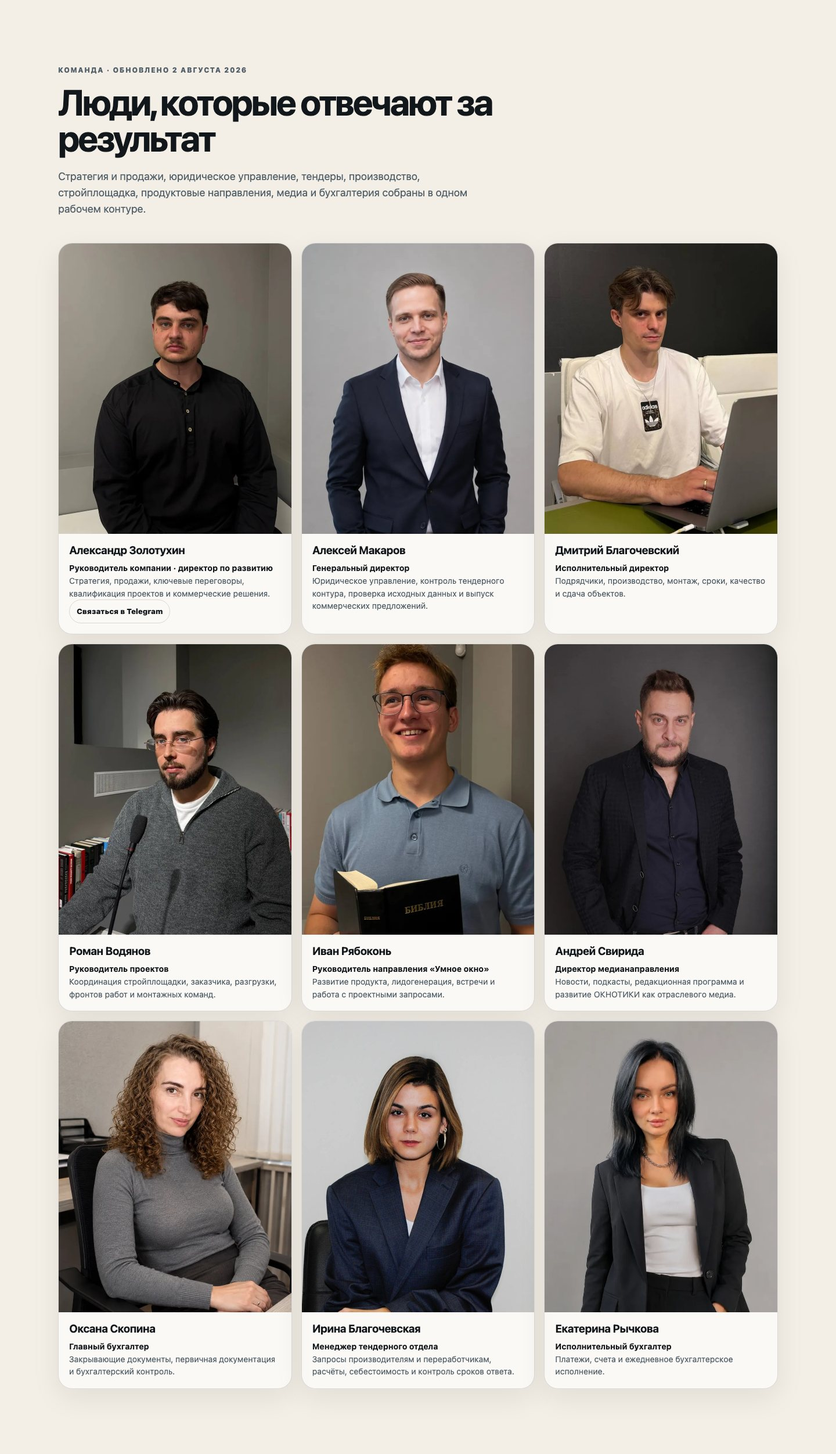
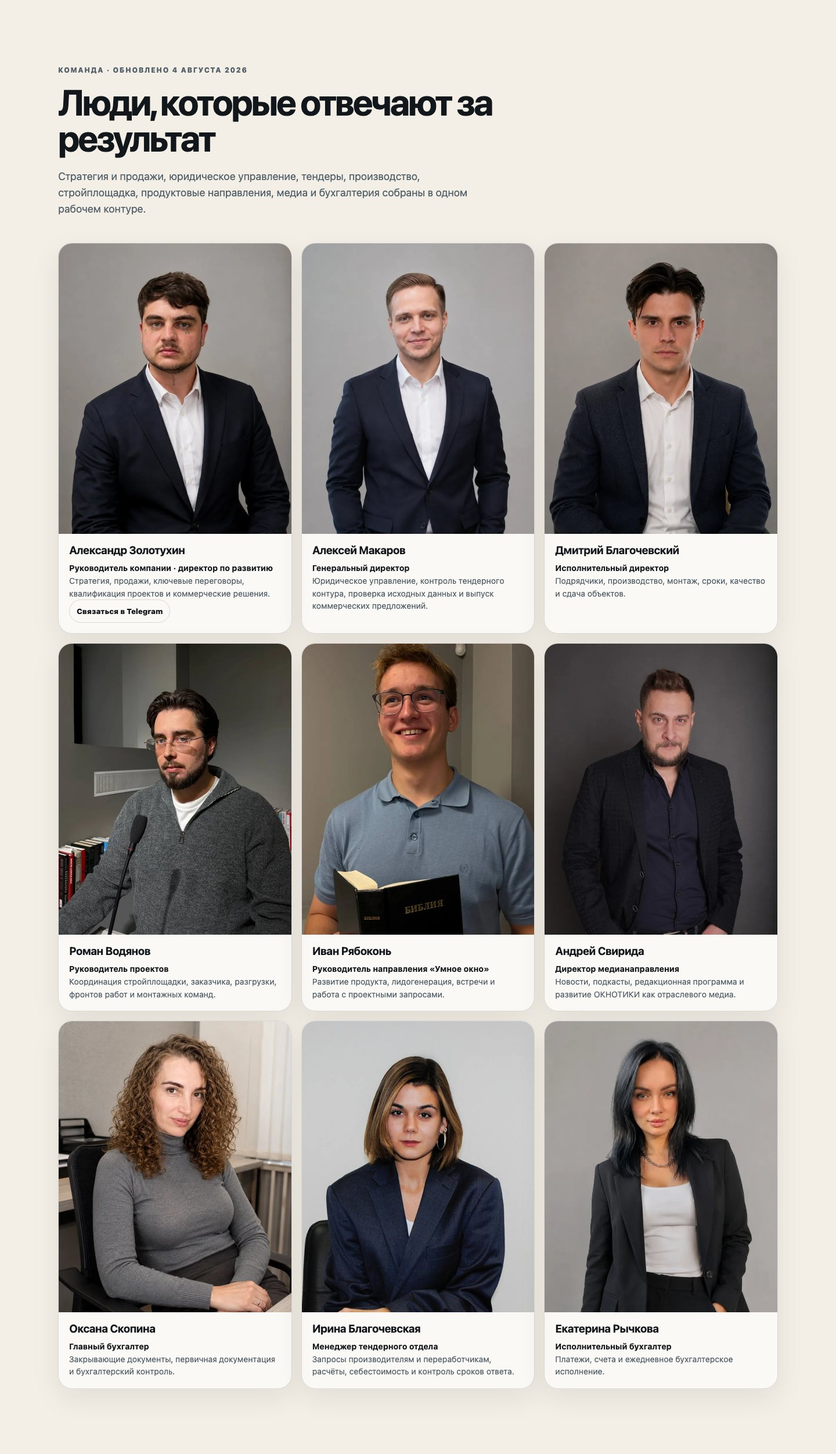
release: prepare final team portraits and Zhenya handoff

Changed region(s): [[0.625, 0.1558, 0.9375, 0.374], [0.0625, 0.1558, 0.375, 0.374], [0.1875, 0.4986, 0.2188, 0.5298]]

diff --git a/index.html b/index.html
@@ -136,14 +136,14 @@
     <section class="section team" id="team">
       <div class="container">
         <div class="section-head reveal">
-          <p class="eyebrow">Команда · обновлено 2 августа 2026</p>
+          <p class="eyebrow">Команда · обновлено 4 августа 2026</p>
           <h2>Люди, которые отвечают за результат</h2>
           <p>Стратегия и продажи, юридическое управление, тендеры, производство, стройплощадка, продуктовые направления, медиа и бухгалтерия собраны в одном рабочем контуре.</p>
         </div>
         <div class="team-grid">
-          <article class="person reveal"><picture class="person__portrait"><source srcset="img/team/alexander-zolotukhin-2026-07.webp" type="image/webp" /><img src="img/team/alexander-zolotukhin-2026-07.jpg" alt="Александр Золотухин, руководитель компании и директор по развитию ОКНОТИКИ" width="800" height="1000" loading="lazy" decoding="async" /></picture><div><h3>Александр Золотухин</h3><p><strong>Руководитель компании · директор по развитию</strong><br />Стратегия, продажи, ключевые переговоры, квалификация проектов и коммерческие решения.</p><a class="person__link" href="https://t.me/ambassadorokon" target="_blank" rel="noreferrer">Связаться в Telegram</a></div></article>
+          <article class="person reveal"><picture class="person__portrait"><source srcset="img/team/alexander-zolotukhin-2026-08.webp" type="image/webp" /><img src="img/team/alexander-zolotukhin-2026-08.jpg" alt="Александр Золотухин, руководитель компании и директор по развитию ОКНОТИКИ" width="800" height="1000" loading="lazy" decoding="async" /></picture><div><h3>Александр Золотухин</h3><p><strong>Руководитель компании · директор по развитию</strong><br />Стратегия, продажи, ключевые переговоры, квалификация проектов и коммерческие решения.</p><a class="person__link" href="https://t.me/ambassadorokon" target="_blank" rel="noreferrer">Связаться в Telegram</a></div></article>
           <article class="person reveal"><picture class="person__portrait"><source srcset="img/team/alexey-makarov-2026-08.webp" type="image/webp" /><img src="img/team/alexey-makarov-2026-08.jpg" alt="Алексей Макаров, генеральный директор ОКНОТИКИ" width="800" height="1000" loading="lazy" decoding="async" /></picture><div><h3>Алексей Макаров</h3><p><strong>Генеральный директор</strong><br />Юридическое управление, контроль тендерного контура, проверка исходных данных и выпуск коммерческих предложений.</p></div></article>
-          <article class="person reveal"><picture class="person__portrait"><source srcset="img/team/dmitry-blagochevsky-2026-07.webp" type="image/webp" /><img src="img/team/dmitry-blagochevsky-2026-07.jpg" alt="Дмитрий Благочевский, исполнительный директор ОКНОТИКИ" width="800" height="1000" loading="lazy" decoding="async" /></picture><div><h3>Дмитрий Благочевский</h3><p><strong>Исполнительный директор</strong><br />Подрядчики, производство, монтаж, сроки, качество и сдача объектов.</p></div></article>
+          <article class="person reveal"><picture class="person__portrait"><source srcset="img/team/dmitry-blagochevsky-2026-08.webp" type="image/webp" /><img src="img/team/dmitry-blagochevsky-2026-08.jpg" alt="Дмитрий Благочевский, исполнительный директор ОКНОТИКИ" width="800" height="1000" loading="lazy" decoding="async" /></picture><div><h3>Дмитрий Благочевский</h3><p><strong>Исполнительный директор</strong><br />Подрядчики, производство, монтаж, сроки, качество и сдача объектов.</p></div></article>
           <article class="person reveal"><picture class="person__portrait"><source srcset="img/team/roman-vodyanov-2026-07.webp" type="image/webp" /><img src="img/team/roman-vodyanov-2026-07.jpg" alt="Роман Водянов, руководитель проектов ОКНОТИКИ" width="800" height="1000" loading="lazy" decoding="async" /></picture><div><h3>Роман Водянов</h3><p><strong>Руководитель проектов</strong><br />Координация стройплощадки, заказчика, разгрузки, фронтов работ и монтажных команд.</p></div></article>
           <article class="person reveal"><picture class="person__portrait"><source srcset="img/team/ivan-ryabokon-2026-07.webp" type="image/webp" /><img src="img/team/ivan-ryabokon-2026-07.jpg" alt="Иван Рябоконь, руководитель направления Умное окно ОКНОТИКИ" width="800" height="1000" loading="lazy" decoding="async" /></picture><div><h3>Иван Рябоконь</h3><p><strong>Руководитель направления «Умное окно»</strong><br />Развитие продукта, лидогенерация, встречи и работа с проектными запросами.</p></div></article>
           <article class="person reveal"><picture class="person__portrait"><source srcset="img/team/andrey-svirida-2026-08.webp" type="image/webp" /><img src="img/team/andrey-svirida-2026-08.jpg" alt="Андрей Свирида, директор медианаправления ОКНОТИКИ" width="800" height="1000" loading="lazy" decoding="async" /></picture><div><h3>Андрей Свирида</h3><p><strong>Директор медианаправления</strong><br />Новости, подкасты, редакционная программа и развитие ОКНОТИКИ как отраслевого медиа.</p></div></article>

diff --git a/tools/team-portraits/create_final_portraits.py b/tools/team-portraits/create_final_portraits.py
@@ -1,5 +1,5 @@
 #!/usr/bin/env python3
-"""Build the four approved August 2026 team portrait derivatives and evidence.
+"""Build the six approved August 2026 team portrait derivatives and evidence.
 
 Source media stays outside Git. Exact hashes freeze the task-supplied frames.
 Processing is limited to a 4:5 crop, uniform resize, and metadata-free encoding;
@@ -25,7 +25,7 @@ from PIL import Image, ImageOps, __version__ as PILLOW_VERSION
 
 
 RELEASE = "2026-08"
-APPROVED_ON = "2026-08-02"
+APPROVED_ON = "2026-08-04"
 APPROVER = "Саня"
 REQUIRED_PILLOW = "12.2.0"
 PINNED_PLAYWRIGHT = "1.58.2"
@@ -46,6 +46,8 @@ class Portrait:
     crop: tuple[int, int, int, int]
     eye_line_y: int
     alt: str
+    approved_on: str = "2026-08-02"
+    approval_method: str = "supplied by Sanya for the 2026-08-02 review-preview revision"
 
 
 PORTRAITS = (
@@ -97,29 +99,37 @@ PORTRAITS = (
         400,
         "Екатерина Рычкова, исполнительный бухгалтер ОКНОТИКИ",
     ),
+    Portrait(
+        "Александр Золотухин",
+        "alexander-zolotukhin",
+        "Руководитель компании · директор по развитию",
+        "alexander-zolotukhin.jpg",
[1 lines of base64/hex data omitted]
+        "JPEG",
+        (853, 1280),
+        (1, 50, 852, 1065),
+        314,
+        "Александр Золотухин, руководитель компании и директор по развитию ОКНОТИКИ",
+        approved_on="2026-08-04",
+        approval_method="supplied by Sanya for the final Zhenya handoff on 2026-08-04",
+    ),
+    Portrait(
+        "Дмитрий Благочевский",
+        "dmitry-blagochevsky",
+        "Исполнительный директор",
+        "dmitry-blagochevsky.png",
[1 lines of base64/hex data omitted]
+        "PNG",
+        (1086, 1448),
+        (1, 40, 1084, 1355),
+        409,
+        "Дмитрий Благочевский, исполнительный директор ОКНОТИКИ",
+        approved_on="2026-08-04",
+        approval_method="supplied by Sanya for the final Zhenya handoff on 2026-08-04",
+    ),
 )
 
 RETAINED = (
-    {
-        "name": "Александр Золотухин",
-        "role": "Руководитель компании · директор по развитию",
-        "alt": "Александр Золотухин, руководитель компании и директор по развитию ОКНОТИКИ",
-        "source_release": "2026-07 approved team shoot",
-        "outputs": {
[2 lines of base64/hex data omitted]
-        },
-    },
-    {
-        "name": "Дмитрий Благочевский",
-        "role": "Исполнительный директор",
-        "alt": "Дмитрий Благочевский, исполнительный директор ОКНОТИКИ",
-        "source_release": "2026-07 approved team shoot",
-        "outputs": {
[2 lines of base64/hex data omitted]
-        },
-    },
     {
         "name": "Роман Водянов",
         "role": "Руководитель проектов",
@@ -206,8 +216,8 @@ def render_portrait(raw: Path, portrait: Portrait, output_dir: Path) -> dict[str
         "status": "approved_task_media",
         "approval": {
             "approver": APPROVER,
-            "approved_on": APPROVED_ON,
-            "method": "supplied by Sanya for the 2026-08-02 review-preview revision",
+            "approved_on": portrait.approved_on,
+            "method": portrait.approval_method,
         },
         "raw": {
             "path_env": f"${{OKNOTIKA_TASK_MEDIA_DIR}}/{portrait.raw_name}",
@@ -459,9 +469,9 @@ def main() -> int:
                 "approval_record": {
                     "approver": APPROVER,
                     "approved_on": APPROVED_ON,
-                    "source": "task media supplied by Sanya for the review-preview revision",
+                    "source": "task media supplied by Sanya for the reviewed site and final Zhenya handoff",
                     "raw_selection": "frozen by exact SHA-256 in team-release-evidence.json",
-                    "scope": "review-only preview; production publication is not authorized by this record",
+                    "scope": "production-candidate handoff; deployment remains separately gated",
                 },
                 "capture": {
                     "playwright": PINNED_PLAYWRIGHT,
@@ -475,16 +485,16 @@ def main() -> int:
         (approval_output / "README.md").write_text(
             "# Team review evidence\n\n"
             "The two contact sheets render all nine public cards at 1440 px and 390 px. "
-            "The four replacement frames supplied by Саня are frozen by their SHA-256 values "
-            "in `team-release-evidence.json`; the other five approved derivatives are verified "
+            "The six replacement frames supplied by Саня are frozen by their SHA-256 values "
+            "in `team-release-evidence.json`; the other three approved derivatives are verified "
             "byte-for-byte.\n\n"
             "Processing is limited to 4:5 crop, uniform resize and metadata-free JPEG/WebP "
             "encoding. Faces, expressions and identity are unchanged. Raw media and private "
             "supporting records stay outside Git and the deployment package.\n\n"
             "Captured layout metrics verify nine decoded 800×1000 images, three desktop "
             "columns, one mobile column, 4:5 boxes and no horizontal overflow.\n\n"
-            "This evidence covers the review-only preview. Production publication requires "
-            "the release owner's separate rights confirmation.\n",
+            "This evidence covers the production-candidate handoff to Женя. Deployment remains "
+            "separately gated by package validation, credentials, DNS/TLS and live smoke checks.\n",
             encoding="utf-8",
         )
 
@@ -499,8 +509,8 @@ def main() -> int:
         "approval": {
             "approver": APPROVER,
             "approved_on": APPROVED_ON,
-            "basis": "four replacement frames supplied for this task",
-            "scope": "review-only preview",
+            "basis": "six replacement frames supplied by Sanya across the reviewed site and final handoff",
+            "scope": "production-candidate handoff",
             "evidence": "release-evidence/team-approval/",
         },
         "portrait_count": len(records),

diff --git a/scripts/check_team_dom.py b/scripts/check_team_dom.py
@@ -39,7 +39,9 @@ EXPECTED_ROLES = {
     "Екатерина Рычкова": "Исполнительный бухгалтер",
 }
 EXPECTED_RAW_HASHES = {
[6 lines of base64/hex data omitted]
@@ -203,17 +205,17 @@ def validate(
     manifest = json.loads(evidence_path.read_text(encoding="utf-8"))
     if (
         manifest.get("portrait_count") != 9
-        or manifest.get("task_media_portrait_count") != 4
-        or manifest.get("retained_portrait_count") != 5
+        or manifest.get("task_media_portrait_count") != 6
+        or manifest.get("retained_portrait_count") != 3
     ):
-        errors.append("manifest portrait counts must be 9/4/5")
+        errors.append("manifest portrait counts must be 9/6/3")
     approval = manifest.get("approval", {})
     if (
         approval.get("approver") != "Саня"
-        or approval.get("scope") != "review-only preview"
+        or approval.get("scope") != "production-candidate handoff"
         or not re.fullmatch(r"\d{4}-\d{2}-\d{2}", approval.get("approved_on", ""))
     ):
-        errors.append("manifest needs the task approval timestamp and review-only scope")
+        errors.append("manifest needs the task approval timestamp and production-candidate handoff scope")
 
     records = manifest.get("portraits", [])
     by_name = {record.get("name"): record for record in records}
@@ -339,7 +341,7 @@ def main(argv: list[str] | None = None) -> int:
         for error in errors:
             print(f"- {error}", file=sys.stderr)
         return 1
-    print("Team DOM/manifest check passed: exact 3x3 order, 4 approved replacements, 5 retained portraits")
+    print("Team DOM/manifest check passed: exact 3x3 order, 6 approved replacements, 3 retained portraits")
     return 0
 
 

diff --git a/scripts/build_release_zip.py b/scripts/build_release_zip.py
@@ -16,9 +16,9 @@ from pathlib import Path
 from scan_release_zip import scan_archive
 
 
-VERSION = "v2.28.0-beta.1"
+VERSION = "v2.29.0-rc.1"
 BASELINE_COMMIT = "5364ff160ffa9b8e9f2d0998a5eef1cf6cd3f5ed"
-FIXED_TIMESTAMP = (2026, 7, 14, 0, 0, 0)
+FIXED_TIMESTAMP = (2026, 8, 4, 0, 0, 0)
 TOP_LEVEL_FILES = {
     ".gitignore", "ALUMINUM_SOURCES.md", "CLAUDE.md", "IMAGE_SOURCES.md", "README.md", "index.html", "script.js", "style.css",
 }
@@ -97,7 +97,7 @@ def ensure_clean_payload_worktree(repo: Path) -> None:
         raise RuntimeError(f"release payload worktree must be clean: {', '.join(sorted(set(dirty)))}")
 
 
-def changed_payload_inventory(repo: Path, paths: list[Path], implementation_commit: str) -> bytes:
+def changed_payload_inventory(repo: Path, paths: list[Path], implementation_commit: str, version: str) -> bytes:
     baseline_output = subprocess.run(
         ["git", "-C", str(repo), "ls-tree", "-r", "--name-only", "-z", BASELINE_COMMIT],
         check=True,
@@ -105,7 +105,7 @@ def changed_payload_inventory(repo: Path, paths: list[Path], implementation_comm
     ).stdout
     baseline_paths = {item.decode() for item in baseline_output.split(b"\0") if item}
     lines = [
-        "# OKNOTIKA v2.28.0-beta.1 release payload changes",
+        f"# OKNOTIKA {version} release payload changes",
         f"# Baseline: {BASELINE_COMMIT}",
         f"# Verified implementation: {implementation_commit}",
         "# Status: A = added to payload, M = modified from baseline",
@@ -167,7 +167,7 @@ def main() -> int:
         path.as_posix(): git_blob(repo, implementation_commit, path) for path in paths
     }
     payload["RELEASE_NOTES.md"] = notes.read_bytes()
-    inventory = changed_payload_inventory(repo, paths, implementation_commit)
+    inventory = changed_payload_inventory(repo, paths, implementation_commit, version)
     payload["CHANGED_FILES.txt"] = inventory
     (release / f"CHANGED_FILES-{version}.txt").write_bytes(inventory)
     manifest = {
@@ -175,7 +175,7 @@ def main() -> int:
         "version": version,
         "implementationCommit": implementation_commit,
         "baselineCommit": BASELINE_COMMIT,
-        "generatedAt": "2026-07-14T00:00:00Z",
+        "generatedAt": "2026-08-04T00:00:00Z",
         "files": {
             path: {
                 "sha256": sha256(data),

diff --git a/scripts/check_final_documentation.py b/scripts/check_final_documentation.py
@@ -14,7 +14,7 @@ from pathlib import Path
 from scan_release_zip import scan_archive
 
 
-VERSION = "v2.28.0-beta.1"
+VERSION = "v2.29.0-rc.1"
 BASELINE = "5364ff160ffa9b8e9f2d0998a5eef1cf6cd3f5ed"
 STALE_MARKERS = ("V2.18", "V2.25")
 
@@ -32,7 +32,7 @@ def require(text: str, path: str, needles: tuple[str, ...], errors: list[str]) -
 def validate_readme_text(text: str) -> list[str]:
     errors = [f"README.md retains stale marker {marker}" for marker in STALE_MARKERS if marker in text]
     require(text, "README.md", (
-        "# ОКНОТИКА — финальный beta-релиз сайта",
+        "# ОКНОТИКА — production-candidate handoff сайта",
         "## Content model «Новости» / «Дайджест недели»",
         "## Telegram enrollment и доступ",
         "## Editor flow",
@@ -46,7 +46,7 @@ def validate_readme_text(text: str) -> list[str]:
         "https://vk.ru/oknotika",
         "https://t.me/FUTU_CHAT",
         "npm run rollback-release",
-        "release/CHANGED_FILES-v2.28.0-beta.1.txt",
+        "release/CHANGED_FILES-v2.29.0-rc.1.txt",
         "Архитектурный ADR намеренно не создан",
     ), errors)
     return errors

diff --git a/tests/test_release_package.py b/tests/test_release_package.py
@@ -136,7 +136,7 @@ class FinalDocumentationTests(unittest.TestCase):
 
     def test_stale_preview_markers_are_rejected(self) -> None:
         errors = docs_checker.validate_readme_text(
-            "# ОКНОТИКА — финальный beta-релиз сайта\nV2.18\nV2.25\n"
+            "# ОКНОТИКА — production-candidate handoff сайта\nV2.18\nV2.25\n"
         )
         self.assertTrue(any("V2.18" in error for error in errors))
         self.assertTrue(any("V2.25" in error for error in errors))

diff --git a/README.md b/README.md
@@ -1,10 +1,10 @@
-# ОКНОТИКА — финальный beta-релиз сайта
+# ОКНОТИКА — production-candidate handoff сайта
 
-Версия `v2.28.0-beta.1` сохраняет утверждённую композицию V2.27 и добавляет согласованные изменения: шесть новых портретов в восьми карточках команды, роль Евгения Жалнина «Операционный директор», отдельный фасадный блок Schüco и закрытый Telegram OIDC-редактор раздела «Новости» с еженедельным «Дайджестом недели».
+Версия `v2.29.0-rc.1` включает актуальный многостраничный публичный сайт, финальную команду из девяти человек с шестью подтверждёнными августовскими портретами, продуктовые страницы, сравнение версий АР, раздел «Новости» и закрытый Telegram OIDC-редактор еженедельного «Дайджеста недели».
 
 Публичный сайт остаётся статическим. Node.js-сервис нужен только авторизованному редактору: он хранит черновики в SQLite, генерирует immutable article release и атомарно переключает symlink. Остановка админки не останавливает сайт и не скрывает уже опубликованные статьи.
 
-Beta-пакет не активирует production. Реальный Telegram login, Tuesday ingestion smoke, Linux-проверки nginx/systemd, DNS/TLS и encrypted off-host backup остаются обязательными gates из `deploy/README_ZHENYA.md`.
+RC-пакет передаётся Жене для развёртывания, но сам production не активирует. Реальный Telegram login, Tuesday ingestion smoke, Linux-проверки nginx/systemd, DNS/TLS и encrypted off-host backup остаются обязательными gates из `deploy/README_ZHENYA.md`.
 
 ## Состав проекта
 
@@ -120,7 +120,7 @@ python3 tools/team-portraits/create_final_portraits.py \
 
 ## Release и эксплуатация
 
-Зафиксированный implementation SHA, baseline SHA, количество файлов и archive SHA-256 находятся в `release/release-manifest-v2.28.0-beta.1.json`. Проверяемые checksums — в `release/SHA256SUMS`; полный список отличий release payload от V2.27 — в `release/CHANGED_FILES-v2.28.0-beta.1.txt` и внутри ZIP как `CHANGED_FILES.txt`.
+Зафиксированный implementation SHA, baseline SHA, количество файлов и archive SHA-256 находятся в `release/release-manifest-v2.29.0-rc.1.json`. Проверяемые checksums — в `release/SHA256SUMS`; полный список отличий release payload от V2.27 — в `release/CHANGED_FILES-v2.29.0-rc.1.txt` и внутри ZIP как `CHANGED_FILES.txt`.
 
 Перед распаковкой:
 

diff --git a/IMAGE_SOURCES.md b/IMAGE_SOURCES.md
@@ -22,7 +22,7 @@
 - `img/products/mkd-sergey.jpg` — переданная объектная фотография окон многоквартирного дома; на странице ПВХ используется как фотографический hero.
 - `img/products/oknotika-window-hero.jpg`, `img/products/oknotika-control-panel.jpg` и `img/products/oknotika-smart-window.svg` — переданные фотографии демонстрационного окна и панели управления ОКНОТИКИ, а также существующая продуктовая схема; на странице продукта каждому исходному визуалу отведена отдельная роль.
 - `img/team/*-2026-07.{jpg,webp}` — сохранённые derivatives из ранее утверждённой командной съёмки; контрольные SHA-256 записаны в `release-evidence/team-release-evidence.json`.
-- `img/team/{alexey-makarov,andrey-svirida,oksana-skopina,ekaterina-rychkova}-2026-08.{jpg,webp}` — 4:5 derivatives из четырёх реальных портретов, переданных Саней для этой review-only ревизии. Применены только crop, равномерный resize и сжатие без синтеза или изменения лиц. Raw/final SHA-256, crop и границы согласования записаны в `release-evidence/team-release-evidence.json`; raw-файлы и приватные документы не входят в Git или ZIP.
+- `img/team/{alexander-zolotukhin,alexey-makarov,dmitry-blagochevsky,andrey-svirida,oksana-skopina,ekaterina-rychkova}-2026-08.{jpg,webp}` — 4:5 derivatives из шести реальных портретов, переданных Саней для review и финального production-candidate handoff Жене. Применены только crop, равномерный resize и сжатие без синтеза или изменения лиц. Raw/final SHA-256, crop и границы согласования записаны в `release-evidence/team-release-evidence.json`; raw-файлы и приватные документы не входят в Git или ZIP.
 
 ## Фасадный mood-визуал и материалы RALUMA
 

diff --git a/release-evidence/team-approval/README.md b/release-evidence/team-approval/README.md
@@ -1,9 +1,9 @@
 # Team review evidence
 
-The two contact sheets render all nine public cards at 1440 px and 390 px. The four replacement frames supplied by Саня are frozen by their SHA-256 values in `team-release-evidence.json`; the other five approved derivatives are verified byte-for-byte.
+The two contact sheets render all nine public cards at 1440 px and 390 px. The six replacement frames supplied by Саня are frozen by their SHA-256 values in `team-release-evidence.json`; the other three approved derivatives are verified byte-for-byte.
 
 Processing is limited to 4:5 crop, uniform resize and metadata-free JPEG/WebP encoding. Faces, expressions and identity are unchanged. Raw media and private supporting records stay outside Git and the deployment package.
 
 Captured layout metrics verify nine decoded 800×1000 images, three desktop columns, one mobile column, 4:5 boxes and no horizontal overflow.
 
-This evidence covers the review-only preview. Production publication requires the release owner's separate rights confirmation.
+This evidence covers the production-candidate handoff to Женя. Deployment remains separately gated by package validation, credentials, DNS/TLS and live smoke checks.

diff --git a/deploy/README_ZHENYA.md b/deploy/README_ZHENYA.md
@@ -47,7 +47,7 @@ Marketing document root получает только публичный allowli
 
 ```bash
 deploy/scripts/install-marketing.sh \
-  --source /var/tmp/oknotika-unpack/oknotika-final-v2.28.0-beta.1 \
+  --source /var/tmp/oknotika-unpack/oknotika-final-v2.29.0-rc.1 \
   --release-sha "$IMPLEMENTATION_SHA" \
   --marketing-root /srv/oknotika
 ```
